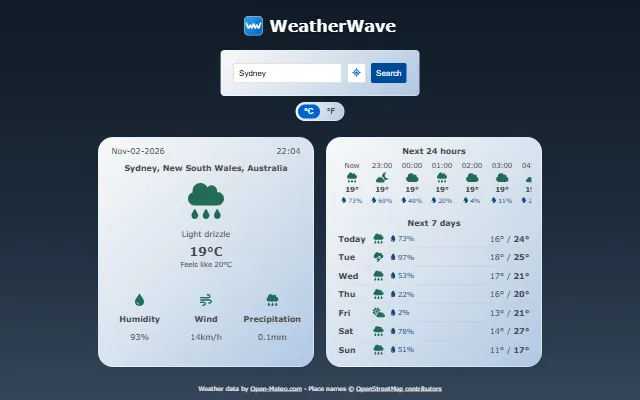
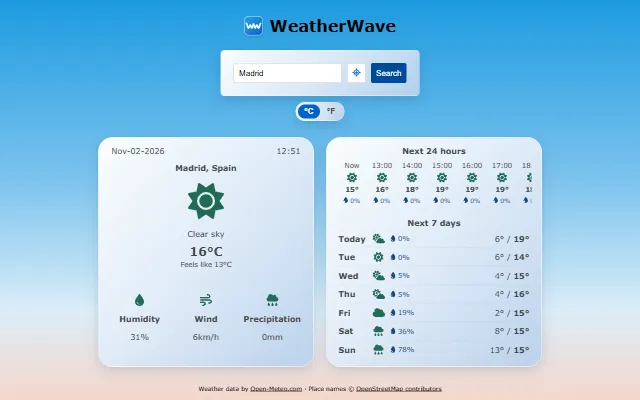
refactor: retake the WeatherWave screenshot in daytime

diff --git a/index.html b/index.html
@@ -160,7 +160,7 @@
                     height="800"
                     loading="lazy"
                     decoding="async"
-                    alt="WeatherWave showing light drizzle and 19°C in Sydney, with humidity, wind and precipitation readings, beside an hourly forecast for the next 24 hours and a 7-day forecast."
+                    alt="WeatherWave showing a clear sky and 16°C in Madrid against a blue daytime background, with humidity, wind and precipitation readings, beside an hourly forecast for the next 24 hours and a 7-day forecast."
                   />
                 </div>
                 <div class="project__body">
